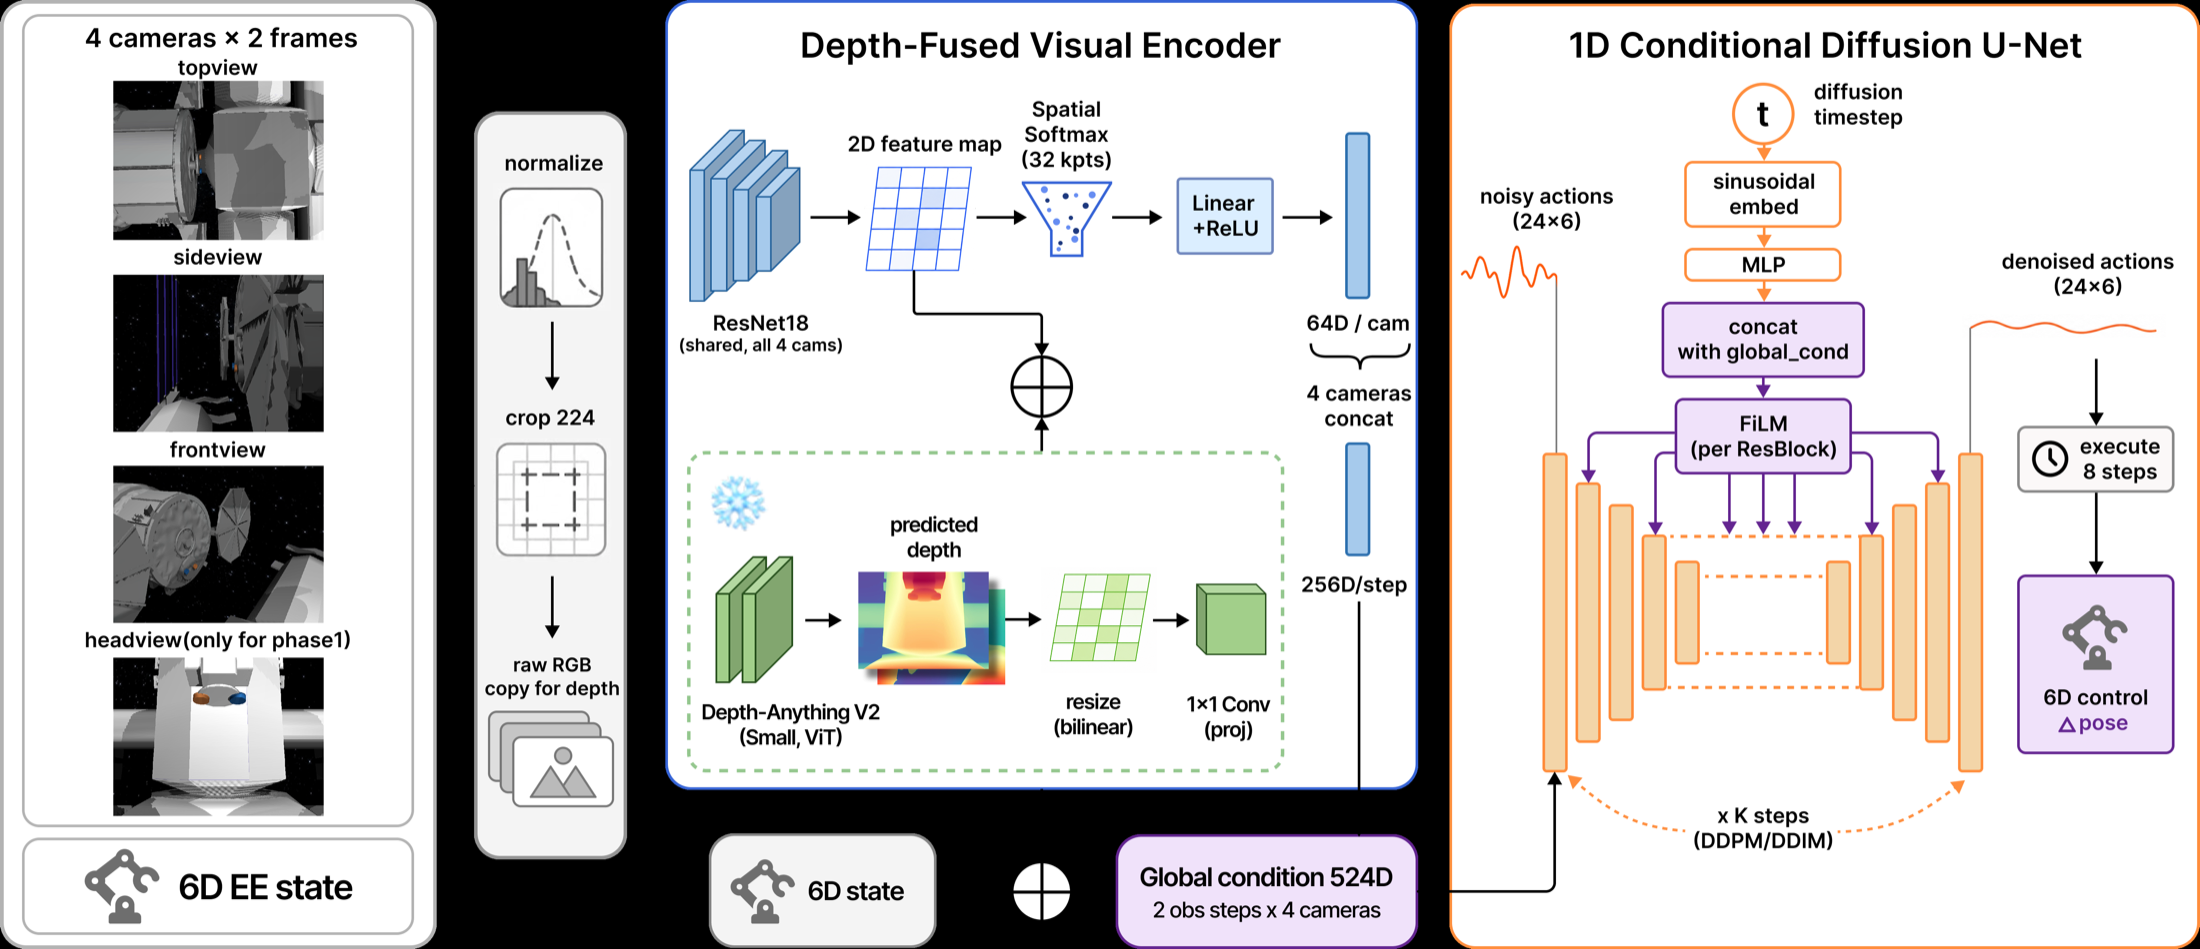
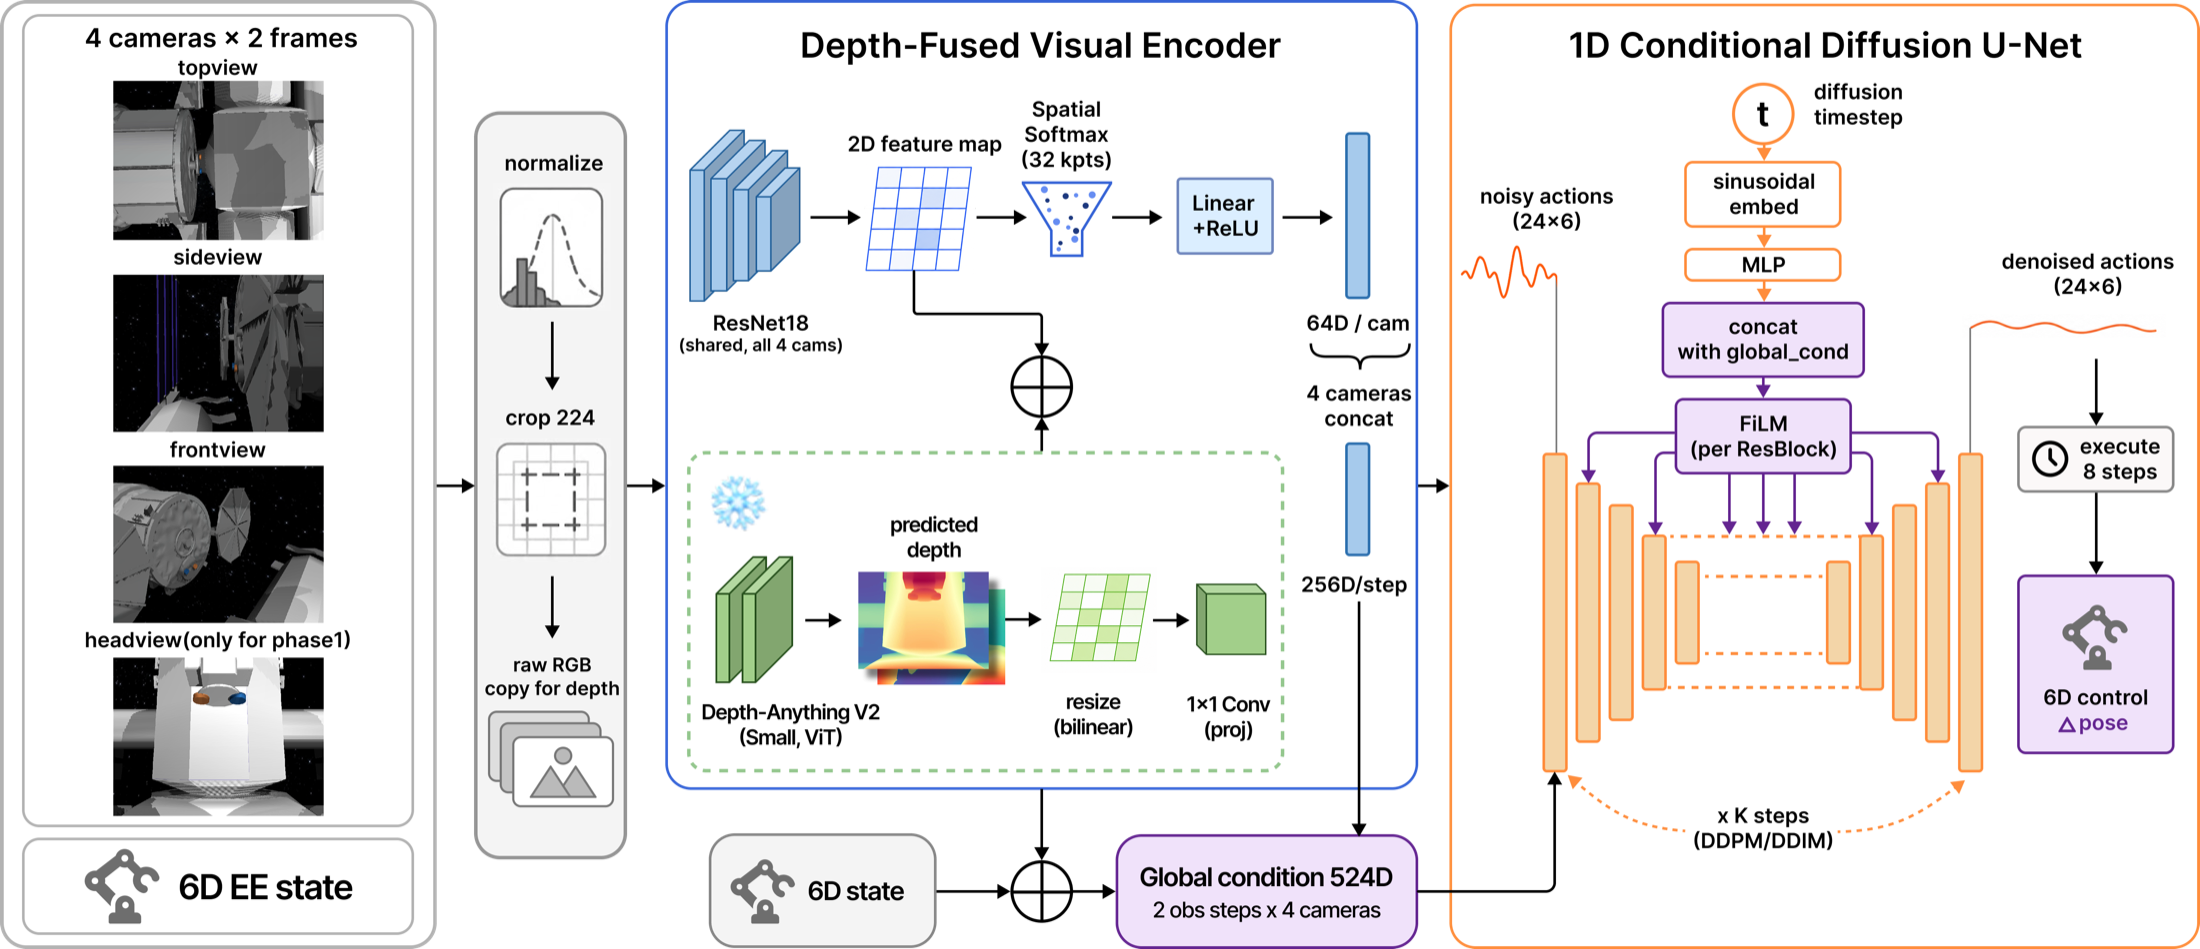
Unify portfolio projects and localize content

Changed region(s): [[0.1855, 0.0, 1.0, 1.0], [0.9891, 0.9779, 1.0, 1.0], [0.0, 0.9779, 0.0309, 1.0]]

diff --git a/index.html b/index.html
@@ -50,8 +50,7 @@
       <div class="nav-links">
         <a href="#focus">Focus</a>
         <a href="#awards">Awards</a>
-        <a href="#work">Work</a>
-        <a href="#publications">Publications</a>
+        <a href="#projects">Projects</a>
         <a href="#contact">Contact</a>
       </div>
     </nav>
@@ -162,11 +161,17 @@
                   <strong>2023</strong>
                 </div>
                 <div class="award-copy">
-                  <p class="award-event">제23회 한국지능로봇경진대회</p>
-                  <h3>국방로봇부문 우수상</h3>
+                  <p class="award-event">
+                    23rd Korea Intelligent Robot Competition
+                    <span class="korean-title">(제23회 한국지능로봇경진대회)</span>
+                  </p>
+                  <h3>
+                    Excellence Award, Defense Robot Division
+                    <span class="korean-title">(국방로봇부문 우수상)</span>
+                  </h3>
                   <p>
-                    2023년 10월 7일부터 9일까지 계룡대에서 개최된 한국지능로봇경진대회
-                    국방로봇부문에서 우수상, 육군참모총장 상장을 수상했습니다.
+                    Received the Excellence Award and the Republic of Korea Army Chief of Staff
+                    Award in the Defense Robot Division, held at Gyeryongdae from October 7-9, 2023.
                   </p>
                 </div>
               </div>
@@ -188,11 +193,17 @@
                   <strong>2025</strong>
                 </div>
                 <div class="award-copy">
-                  <p class="award-event">2025 극한로봇 경진대회</p>
-                  <h3>최우수상</h3>
+                  <p class="award-event">
+                    2025 Extreme Robot Competition
+                    <span class="korean-title">(2025 극한로봇 경진대회)</span>
+                  </p>
+                  <h3>
+                    Grand Prize
+                    <span class="korean-title">(최우수상)</span>
+                  </h3>
                   <p>
-                    2025년 10월 2일 서울 코엑스에서 열린 극한로봇 경진대회에서
-                    최우수상, 서울경제진흥원 대표이사상을 수상했습니다.
+                    Received the Grand Prize and the Seoul Business Agency CEO Award at COEX in
+                    Seoul on October 2, 2025.
                   </p>
                 </div>
               </div>
@@ -201,14 +212,14 @@
         </div>
       </section>
 
-      <section class="work section-band" id="work" aria-labelledby="work-title">
+      <section class="work section-band" id="projects" aria-labelledby="projects-title">
         <div class="section-inner">
           <div class="section-heading">
             <div>
-              <p class="section-kicker">Selected work</p>
-              <h2 id="work-title">Projects and papers</h2>
+              <p class="section-kicker">Projects</p>
+              <h2 id="projects-title">Research Projects</h2>
             </div>
-            <div class="filters" aria-label="Filter selected work">
+            <div class="filters" aria-label="Filter research projects">
               <button class="filter-button is-active" type="button" data-filter="all" aria-pressed="true">All</button>
               <button class="filter-button" type="button" data-filter="vla" aria-pressed="false">VLA</button>
               <button class="filter-button" type="button" data-filter="space" aria-pressed="false">Space</button>
@@ -229,16 +240,28 @@
                 A depth-fused diffusion policy for two-phase spacecraft berthing, designed to remain
                 robust when individual camera views are lost during terminal manipulation.
               </p>
-              <figure class="research-figure">
-                <img
-                  src="assets/research/depth-fused-policy-architecture.png"
-                  alt="Depth-fused diffusion policy architecture combining multi-view RGB features with monocular depth features"
-                  width="2200"
-                  height="949"
-                  loading="lazy"
-                />
-                <figcaption>Depth-fused diffusion-policy architecture for spacecraft berthing.</figcaption>
-              </figure>
+              <div class="research-figures">
+                <figure class="research-figure">
+                  <img
+                    src="assets/research/spacecraft-berthing-benchmark.png"
+                    alt="Two-phase manipulator-assisted spacecraft berthing benchmark"
+                    width="2400"
+                    height="599"
+                    loading="lazy"
+                  />
+                  <figcaption>Two-phase manipulator-assisted spacecraft berthing benchmark.</figcaption>
+                </figure>
+                <figure class="research-figure">
+                  <img
+                    src="assets/research/depth-fused-policy-architecture.png"
+                    alt="Depth-fused diffusion policy architecture combining multi-view RGB features with monocular depth features"
+                    width="2200"
+                    height="949"
+                    loading="lazy"
+                  />
+                  <figcaption>Depth-fused diffusion-policy architecture.</figcaption>
+                </figure>
+              </div>
             </article>
 
             <article class="work-card featured" data-tags="vla manipulation">
@@ -283,10 +306,13 @@
 
             <article class="work-card" data-tags="space manipulation">
               <div class="card-topline">
-                <span>KSAS Fall Conference</span>
+                <span>KSAS Fall Conference (한국항공우주학회 추계학술대회)</span>
                 <span>2025</span>
               </div>
-              <h3>단안 카메라 기반 모방 학습을 활용한 우주 로봇 팔 도킹 연구</h3>
+              <h3>
+                Monocular Vision-Based Imitation Learning for Space Robotic Arm Docking
+                <span class="korean-title">(단안 카메라 기반 모방 학습을 활용한 우주 로봇 팔 도킹 연구)</span>
+              </h3>
               <p>
                 A space robotic arm docking study using monocular visual input and imitation learning,
                 connecting perception-driven demonstrations to docking-oriented manipulation.
@@ -300,10 +326,13 @@
 
             <article class="work-card" data-tags="vla manipulation">
               <div class="card-topline">
-                <span>IEIE Summer Conference</span>
+                <span>IEIE Summer Conference (대한전자공학회 하계종합학술대회)</span>
                 <span>2025</span>
               </div>
-              <h3>BB-VLA: Brain-Body 프레임워크로 사람의 사고를 모방하는 지능형 매니퓰레이터 팔레타이징</h3>
+              <h3>
+                BB-VLA: Intelligent Manipulator Palletizing through a Brain-Body Framework
+                <span class="korean-title">(BB-VLA: Brain-Body 프레임워크로 사람의 사고를 모방하는 지능형 매니퓰레이터 팔레타이징)</span>
+              </h3>
               <p>
                 BB-VLA frames robot palletizing as a brain-body system, separating higher-level
                 reasoning from embodied manipulation to imitate human-like task planning and action.
@@ -312,10 +341,13 @@
 
             <article class="work-card" data-tags="space manipulation">
               <div class="card-topline">
-                <span>SASE Spring Conference</span>
+                <span>SASE Spring Conference (항공우주시스템공학회 춘계학술대회)</span>
                 <span>2025</span>
               </div>
-              <h3>우주 비행체 도킹 보조를 위한 로봇팔 학습 데이터 생성 및 모방 학습 응용 연구</h3>
+              <h3>
+                Learning Data Generation and Imitation Learning for Robotic Arm-Assisted Spacecraft Docking
+                <span class="korean-title">(우주 비행체 도킹 보조를 위한 로봇팔 학습 데이터 생성 및 모방 학습 응용 연구)</span>
+              </h3>
               <p>
                 A data-generation and imitation-learning study for improving robot-arm control
                 accuracy in spacecraft docking assistance under space-oriented manipulation settings.
@@ -327,70 +359,6 @@
               </div>
             </article>
           </div>
-        </div>
-      </section>
-
-      <section class="publications section-band" id="publications" aria-labelledby="publications-title">
-        <div class="section-inner">
-          <div class="section-heading">
-            <div>
-              <p class="section-kicker">Publication list</p>
-              <h2 id="publications-title">Verified public entries</h2>
-            </div>
-            <a class="text-link" href="https://scholar.google.com/scholar?q=%22Jiyeon+Koo%22+%22RetoVLA%22" target="_blank" rel="noreferrer">
-              Scholar search
-            </a>
-          </div>
-
-          <ol class="publication-list">
-            <li>
-              <span class="pub-year">2026</span>
-              <div>
-                <h3>RetoVLA: Reusing Register Tokens for Spatial Reasoning in Vision-Language-Action Models</h3>
-                <p>
-                  Jiyeon Koo, Taewan Cho, Hyunjoon Kang, Eunseom Pyo, Tae Gyun Oh, Taeryang Kim,
-                  Andrew Jaeyong Choi. IEEE International Conference on Robotics and Automation
-                  (ICRA), 2026; arXiv:2509.21243.
-                </p>
-              </div>
-            </li>
-            <li>
-              <span class="pub-year">2026</span>
-              <div>
-                <h3>Kalman-Conditioned Action Chunking Transformers for Dynamic Object Grasping Toward Aerial Recovery Systems</h3>
-                <p>
-                  Jiyeon Koo, Eunseom Pyo, Andrew Jaeyong Choi. Drones and Unmanned Systems, 2026.
-                </p>
-              </div>
-            </li>
-            <li>
-              <span class="pub-year">2025</span>
-              <div>
-                <h3>단안 카메라 기반 모방 학습을 활용한 우주 로봇 팔 도킹 연구</h3>
-                <p>
-                  구지연, 조태완, 최재용. 한국항공우주학회 2025년도 추계학술대회.
-                </p>
-              </div>
-            </li>
-            <li>
-              <span class="pub-year">2025</span>
-              <div>
-                <h3>BB-VLA: Brain-Body 프레임워크로 사람의 사고를 모방하는 지능형 매니퓰레이터 팔레타이징</h3>
-                <p>
-                  구지연, 차준하, 최재용. 대한전자공학회 2025년도 하계종합학술대회.
-                </p>
-              </div>
-            </li>
-            <li>
-              <span class="pub-year">2025</span>
-              <div>
-                <h3>우주 비행체 도킹 보조를 위한 로봇팔 학습 데이터 생성 및 모방 학습 응용 연구</h3>
-                <p>
-                  구지연, 최재용. 항공우주시스템공학회 2025년도 춘계학술대회.
-                </p>
-              </div>
-            </li>
-          </ol>
         </div>
       </section>
 

diff --git a/styles.css b/styles.css
@@ -128,9 +128,9 @@ section[id] { scroll-margin-top: 24px; }
   text-transform: uppercase;
 }
 
-.intro, .pillars, .awards, .work, .publications, .methods, .contact { background: var(--paper); }
+.intro, .pillars, .awards, .work, .methods, .contact { background: var(--paper); }
 .intro .section-inner, .pillars .section-inner, .awards .section-inner, .work .section-inner,
-.publications .section-inner, .methods .section-inner, .contact .section-inner {
+.methods .section-inner, .contact .section-inner {
   border-top: 1px solid var(--ink);
   padding-top: 30px;
 }
@@ -176,6 +176,7 @@ section[id] { scroll-margin-top: 24px; }
 .award-event { margin: 0 0 4px; color: var(--muted); font-size: .8rem; }
 .award-copy h3 { margin: 0 0 10px; font-size: 1.08rem; font-weight: 600; line-height: 1.35; }
 .award-copy p:last-child { margin: 0; color: var(--muted); font-size: .91rem; }
+.korean-title { display: block; margin-top: 3px; color: var(--muted); font-size: .82em; font-weight: 400; line-height: 1.45; }
 
 .filters { display: flex; flex-wrap: wrap; justify-content: flex-end; gap: 8px 18px; }
 .filter-button {
@@ -212,7 +213,7 @@ section[id] { scroll-margin-top: 24px; }
   line-height: 1.38;
   letter-spacing: -.01em;
 }
-.work-card p, .video-embed, .research-figure, .card-links { grid-column: 2; }
+.work-card p, .video-embed, .research-figures, .card-links { grid-column: 2; }
 .work-card p { color: var(--muted); font-size: .94rem; }
 .work-card p { margin: 0 0 14px; }
 
@@ -226,23 +227,12 @@ section[id] { scroll-margin-top: 24px; }
   background: #000;
 }
 .video-embed iframe, .video-embed video { position: absolute; inset: 0; width: 100%; height: 100%; border: 0; background: #000; }
-.research-figure { width: min(100%, 640px); margin: 8px 0 0; }
-.research-figure img { display: block; width: 100%; height: auto; }
+.research-figures { display: grid; width: min(100%, 760px); gap: 24px; margin-top: 8px; }
+.research-figure { width: 100%; margin: 0; overflow: hidden; background: #fff; }
+.research-figure img { display: block; width: 100%; height: auto; background: #fff; }
 .research-figure figcaption { margin-top: 8px; color: var(--quiet); font-size: .78rem; }
 .card-links { display: flex; flex-wrap: wrap; gap: 14px; margin-top: 2px; }
 .card-links a, .text-link { border: 0; background: transparent; padding: 0; box-shadow: none; }
-
-.publication-list { display: grid; margin: 0; padding: 0; list-style: none; border-top: 1px solid var(--line); }
-.publication-list li {
-  display: grid;
-  grid-template-columns: 150px minmax(0, 1fr);
-  gap: 30px;
-  border-bottom: 1px solid var(--line);
-  padding: 24px 0;
-}
-.pub-year { color: var(--muted); font-size: .82rem; }
-.publication-list h3 { margin: 0 0 6px; font-size: 1rem; font-weight: 600; line-height: 1.45; }
-.publication-list p { margin: 0; color: var(--muted); font-size: .92rem; }
 
 .method-tags { gap: 8px 0; color: var(--muted); font-size: .92rem; }
 .contact h2 { max-width: 420px; }
@@ -296,11 +286,10 @@ section[id] { scroll-margin-top: 24px; }
   .award-media img { height: 240px; }
   .section-heading { align-items: flex-start; flex-direction: column; margin-bottom: 28px; }
   .filters { justify-content: flex-start; }
-  .work-card, .work-card.featured, .publication-list li { grid-template-columns: 1fr; gap: 0; }
+  .work-card, .work-card.featured { grid-template-columns: 1fr; gap: 0; }
   .card-topline { grid-column: 1; grid-row: auto; display: flex; justify-content: space-between; margin-bottom: 12px; }
   .card-topline span + span { margin-top: 0; }
-  .work-card h3, .work-card.featured h3, .work-card p, .video-embed, .research-figure, .card-links { grid-column: 1; }
-  .publication-list li { gap: 7px; }
+  .work-card h3, .work-card.featured h3, .work-card p, .video-embed, .research-figures, .card-links { grid-column: 1; }
   .footer-inner { align-items: flex-start; flex-direction: column; }
 }
 
